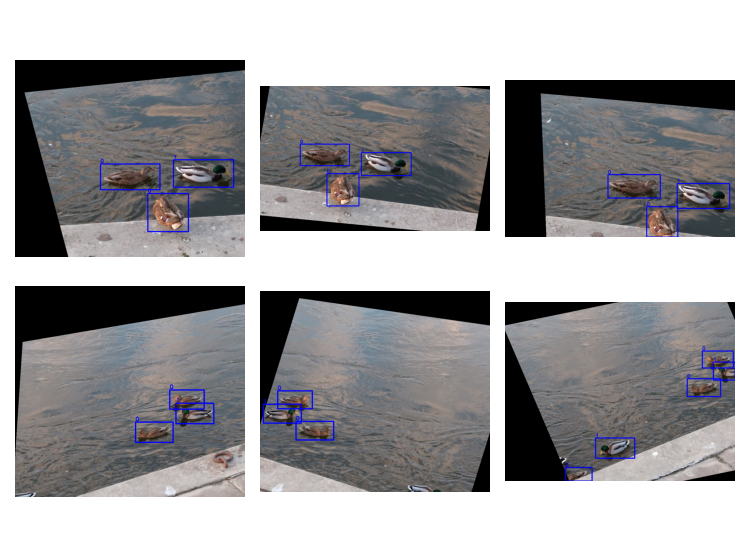
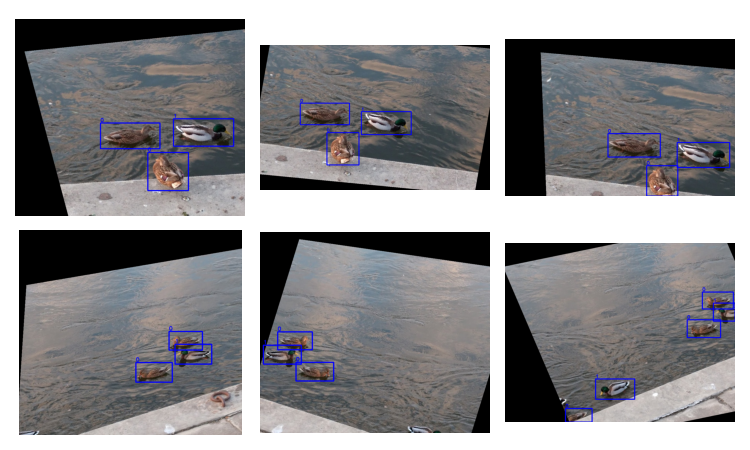
Update example fig size

diff --git a/examples/run_tf_dataset_example.py b/examples/run_tf_dataset_example.py
@@ -96,7 +96,7 @@ def plot(
         ds: tf.data.Dataset,
         num_rows: int,
         num_cols: int,
-        figure_size_inches: Tuple[float, float] = (7.5, 5.5)
+        figure_size_inches: Tuple[float, float] = (7.5, 4.5)
 ) -> None:
     """
     Plot samples of image, bboxes, and the corresponding labels.

diff --git a/examples/run_pt_dataset_example.py b/examples/run_pt_dataset_example.py
@@ -133,7 +133,7 @@ def plot(
         ds: Dataset,
         num_rows: int,
         num_cols: int,
-        figure_size_inches: Tuple[float, float] = (7.5, 5.5)
+        figure_size_inches: Tuple[float, float] = (7.5, 4.5)
 ) -> None:
     """
     Plot samples of image, bboxes, and the corresponding labels.
